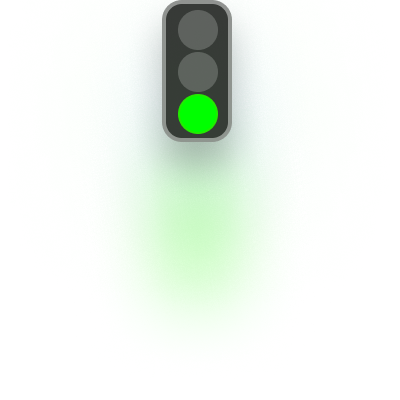
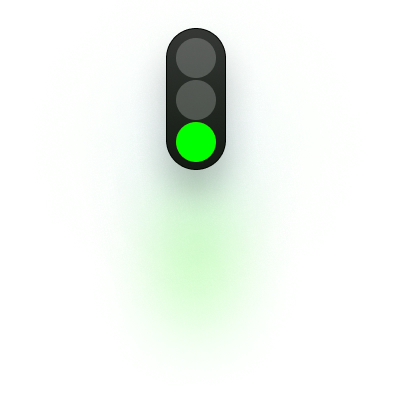
Redesign traffic light layers and improve route styling

Changed region(s): [[0.39, 0.0, 0.6, 0.48]]

diff --git a/lib/ride/views/map.dart b/lib/ride/views/map.dart
@@ -252,15 +252,14 @@ class RideMapViewState extends State<RideMapView> {
 
     final ppi = MediaQuery.of(context).devicePixelRatio;
     await SelectedRouteLayer(context)
-        .install(mapController!, bgLineWidth: 20.0, fgLineWidth: 14.0, below: "user-ride-location-puck");
+        .install(mapController!, bgLineWidth: 16.0, fgLineWidth: 14.0, below: "user-ride-location-puck");
     await WaypointsLayer(context).install(mapController!, iconSize: ppi / 8, below: "user-ride-location-puck");
     await TrafficLightsLayer(context, hideBehindPosition: ride.userSelectedSG == null)
-        .install(mapController!, iconSize: ppi / 3);
+        .install(mapController!, iconSize: ppi / 5);
     await OfflineCrossingsLayer(context, hideBehindPosition: ride.userSelectedSG == null)
-        .install(mapController!, iconSize: ppi / 3);
+        .install(mapController!, iconSize: ppi / 5);
     await DangersLayer(context, hideBehindPosition: true).install(mapController!, iconSize: ppi / 5);
-    // The traffic light layer image has a 2x resolution to make it look good on high DPI screens.
-    await TrafficLightLayer(context).install(mapController!, iconSize: ppi / 6);
+    await TrafficLightLayer(context).install(mapController!, iconSize: ppi / 5);
 
     onRoutingUpdate();
     onPositioningUpdate();

diff --git a/lib/routing/views_beta/map.dart b/lib/routing/views_beta/map.dart
@@ -416,11 +416,11 @@ class RoutingMapViewState extends State<RoutingMapView> with TickerProviderState
     final ppi = MediaQuery.of(context).devicePixelRatio;
     final offlineCrossings = await OfflineCrossingsLayer(context).install(
       mapController!,
-      iconSize: ppi / 5,
+      iconSize: ppi / 10,
     );
     final trafficLights = await TrafficLightsLayer(context).install(
       mapController!,
-      iconSize: ppi / 5,
+      iconSize: ppi / 10,
       below: offlineCrossings,
     );
     final discomforts = await DiscomfortsLayer(context).install(

diff --git a/lib/routing/views/map.dart b/lib/routing/views/map.dart
@@ -284,12 +284,12 @@ class RoutingMapViewState extends State<RoutingMapView> with TickerProviderState
     if (!mounted) return;
     final offlineCrossings = await OfflineCrossingsLayer(context).install(
       mapController!,
-      iconSize: ppi / 5,
+      iconSize: ppi / 10,
     );
     if (!mounted) return;
     final trafficLights = await TrafficLightsLayer(context).install(
       mapController!,
-      iconSize: ppi / 5,
+      iconSize: ppi / 10,
       below: offlineCrossings,
     );
     if (!mounted) return;
